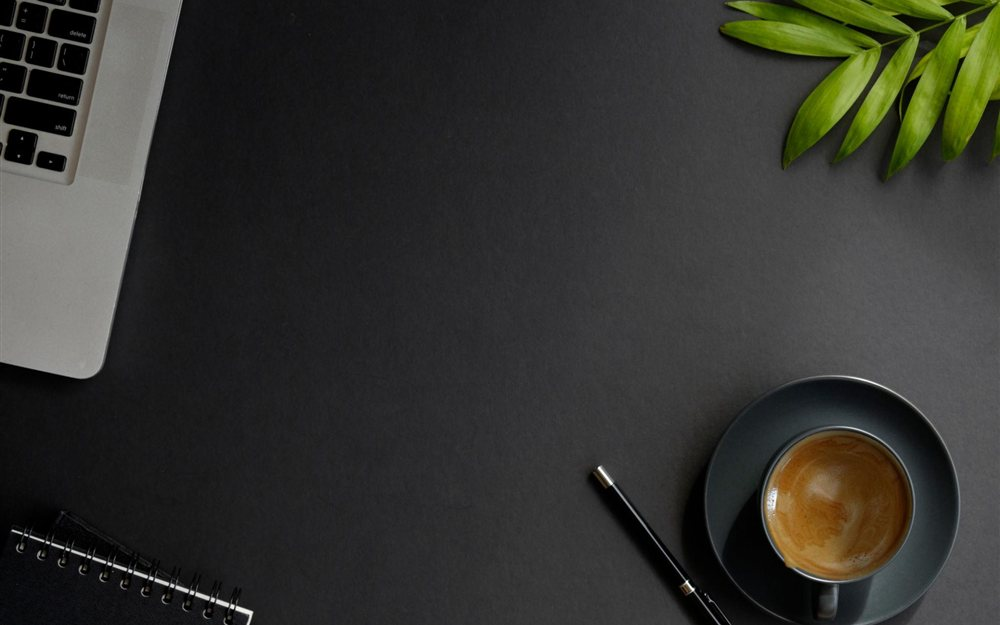
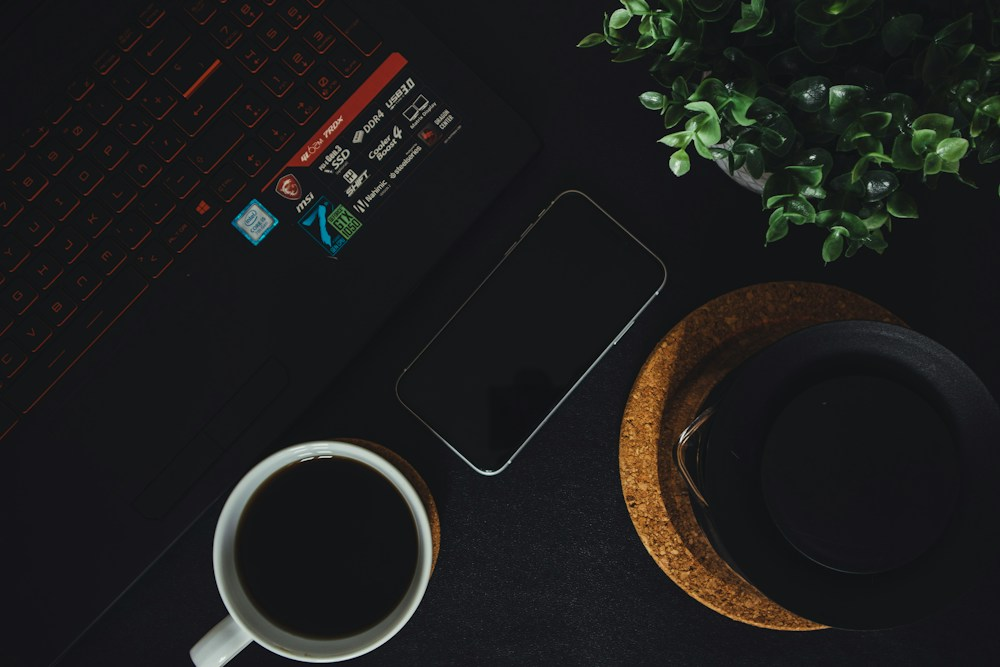
updated images

diff --git a/index.html b/index.html
@@ -29,7 +29,7 @@
       </div>
       <div class="section-grid">
         <a class="section-card" href="about.html">
-          <img src="img/about.jpg" alt="Overhead view of a dark desk with a laptop, notebook, pen, and coffee" width="1000" height="625" loading="lazy" />
+          <img src="img/about.jpg" alt="Overhead view of a dark desk with a laptop, phone, plant, and a cup of coffee" width="1000" height="667" loading="lazy" />
           <h3>About Me</h3>
           <p>Who I am and what I'm working on.</p>
           <span class="arrow" aria-hidden="true">&rarr;</span>
@@ -47,13 +47,13 @@
           <span class="arrow" aria-hidden="true">&rarr;</span>
         </a>
         <a class="section-card" href="skills.html">
-          <img src="img/skills.jpg" alt="Person working at a monitor showing a network topology dashboard and live log output" width="1000" height="625" loading="lazy" />
+          <img src="img/skills.jpg" alt="Hands on a keyboard and mouse in front of a computer monitor" width="1000" height="563" loading="lazy" />
           <h3>Technologies &amp; Skills</h3>
           <p>Tools and technologies I work with.</p>
           <span class="arrow" aria-hidden="true">&rarr;</span>
         </a>
         <a class="section-card" href="contact.html">
-          <img src="img/contact.jpg" alt="A dark contact page with links and a name, email, subject, and message form" width="1000" height="625" loading="lazy" />
+          <img src="img/contact.jpg" alt="A smartphone on a dark surface with a minimal home screen listing Phone, Camera, Clock, and Contacts" width="1000" height="665" loading="lazy" />
           <h3>Contact &amp; Resume</h3>
           <p>Get in touch or view my resume.</p>
           <span class="arrow" aria-hidden="true">&rarr;</span>

diff --git a/README.md b/README.md
@@ -6,4 +6,6 @@ Home page card images:
 
 - Projects: Bernd Dittrich on [Unsplash](https://unsplash.com/license)
 - Homelab & Infrastructure: Manuel Luikenga on [Unsplash](https://unsplash.com/license)
-- Technologies & Skills, About Me, Contact & Resume: supplied by the site owner (source not recorded)
+- About Me: Nubelson Fernandes on [Unsplash](https://unsplash.com/photos/OjHaPgV8qSA)
+- Technologies & Skills: Jakub Żerdzicki on [Unsplash](https://unsplash.com/photos/SMmh5eu8OlI)
+- Contact & Resume: ᛟᛞᚨᛚᚹ (@odalv) on [Unsplash](https://unsplash.com/photos/s4NiSN2FM-A)
